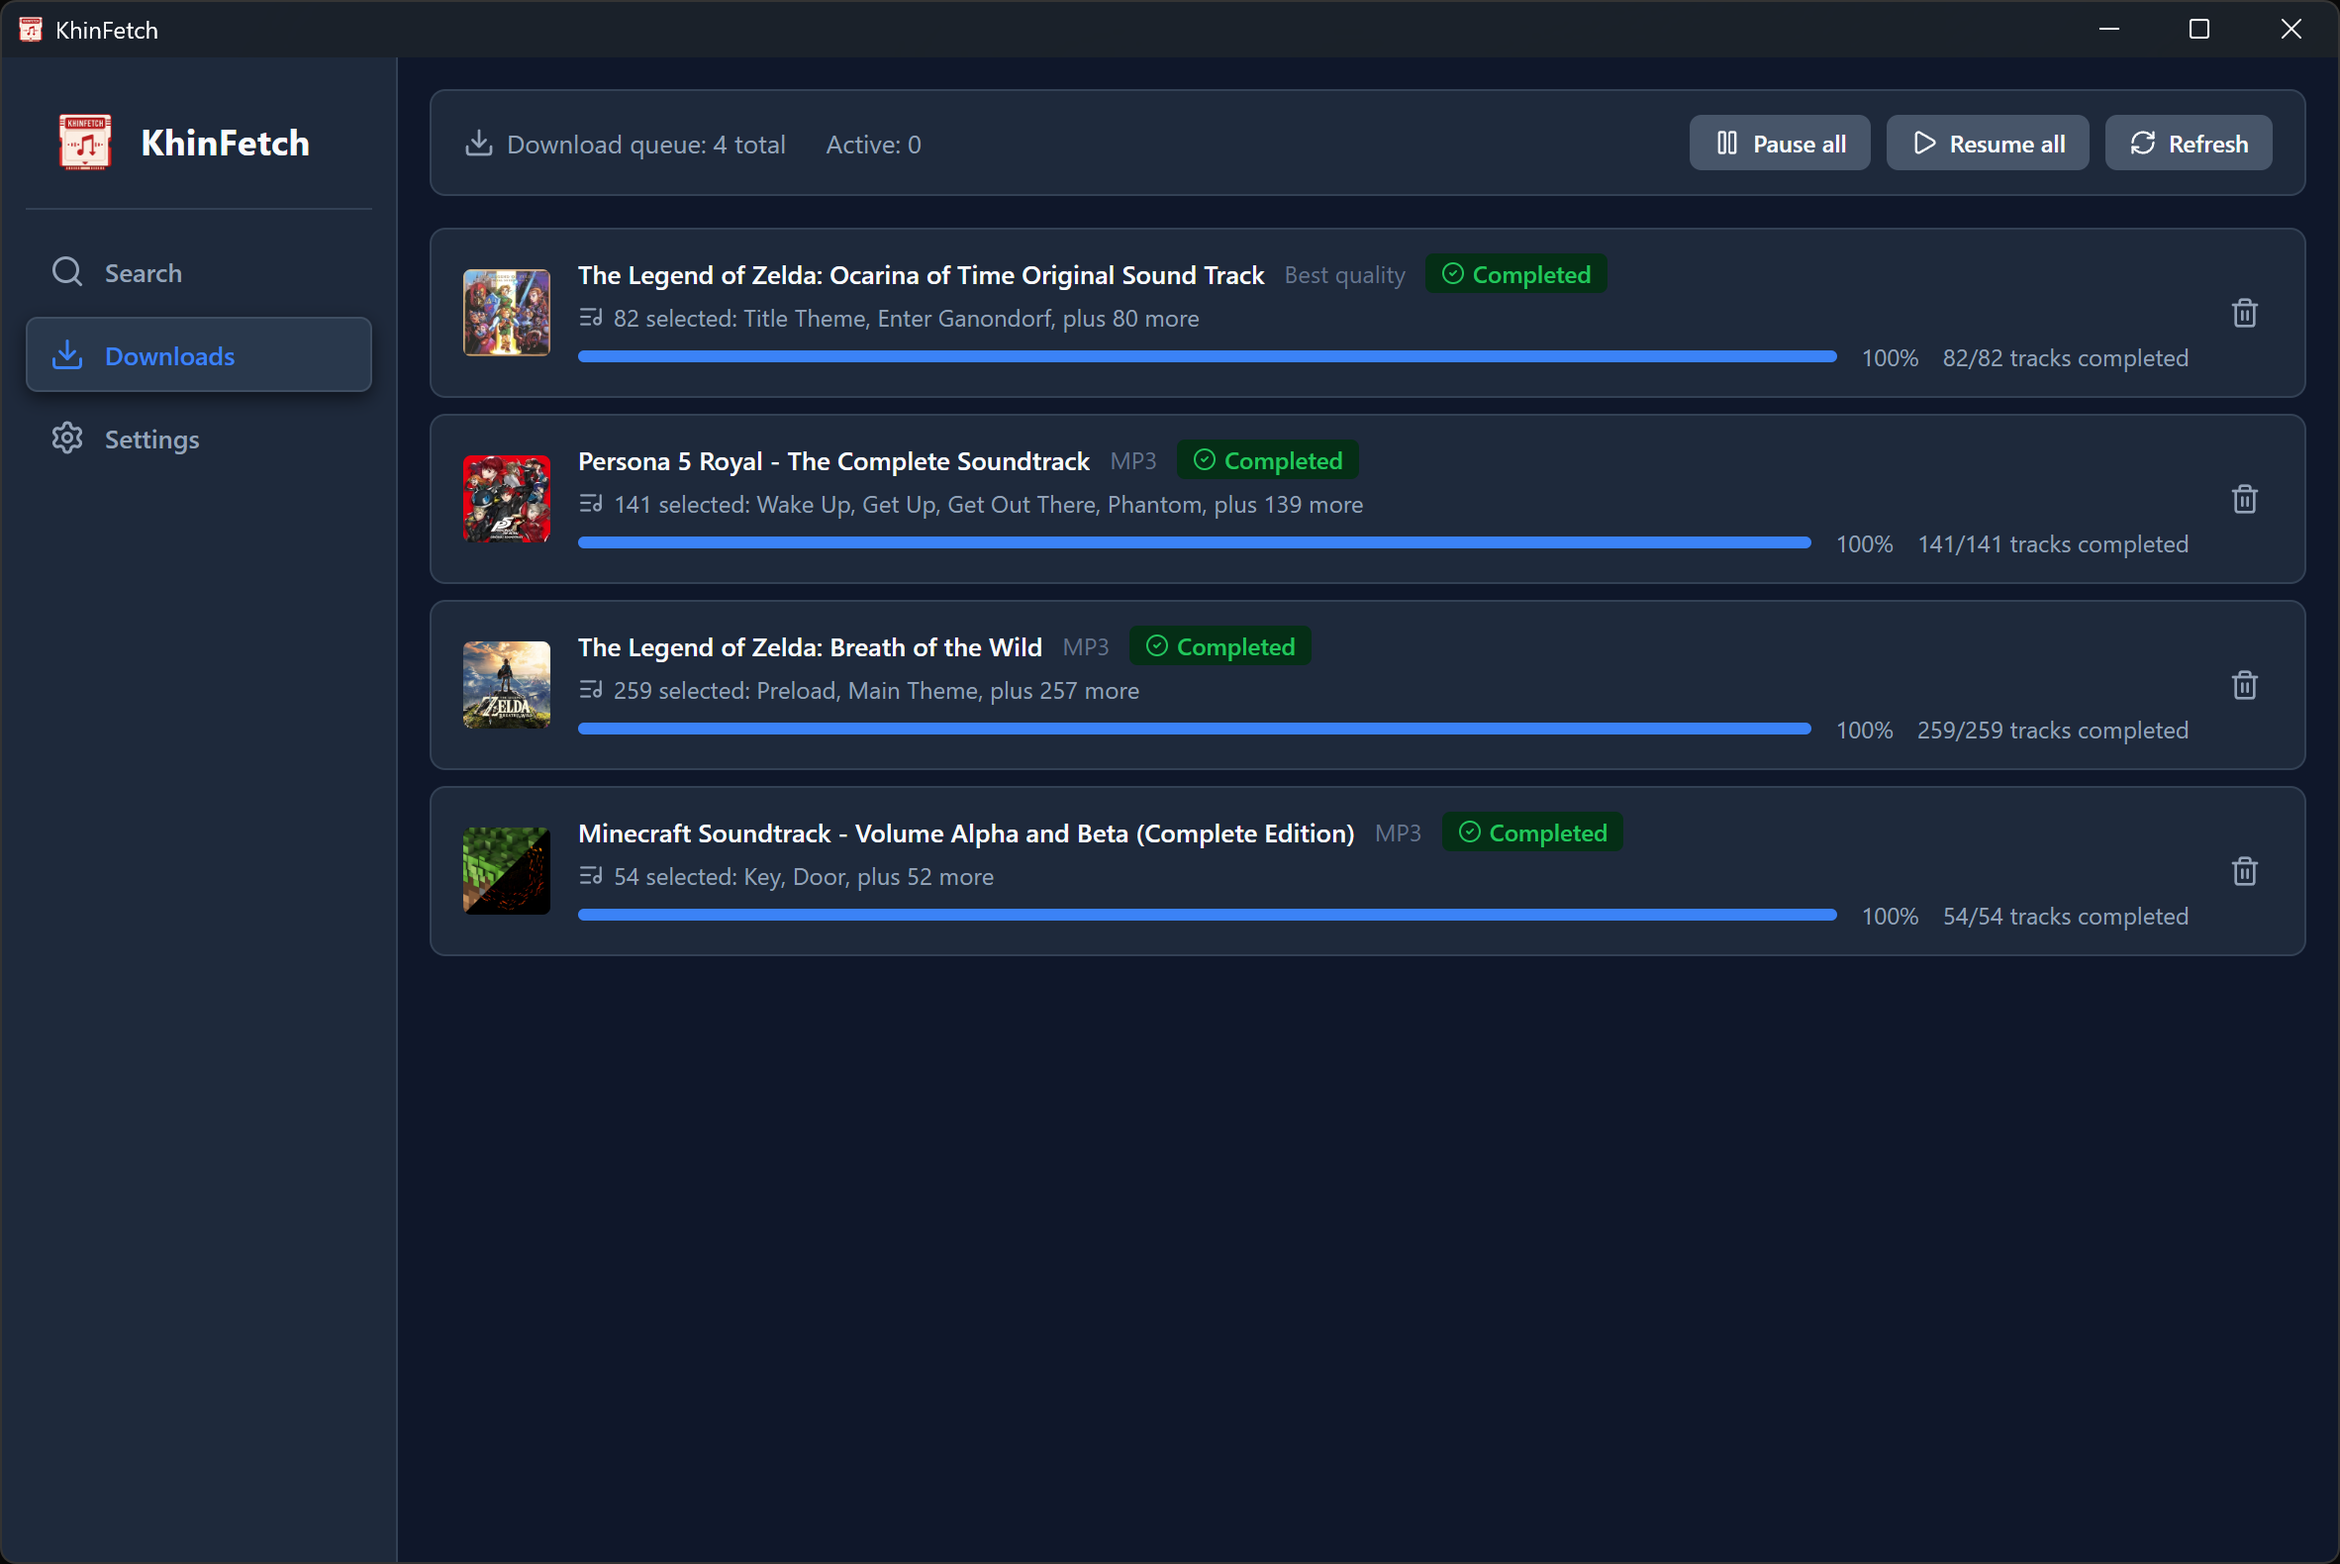
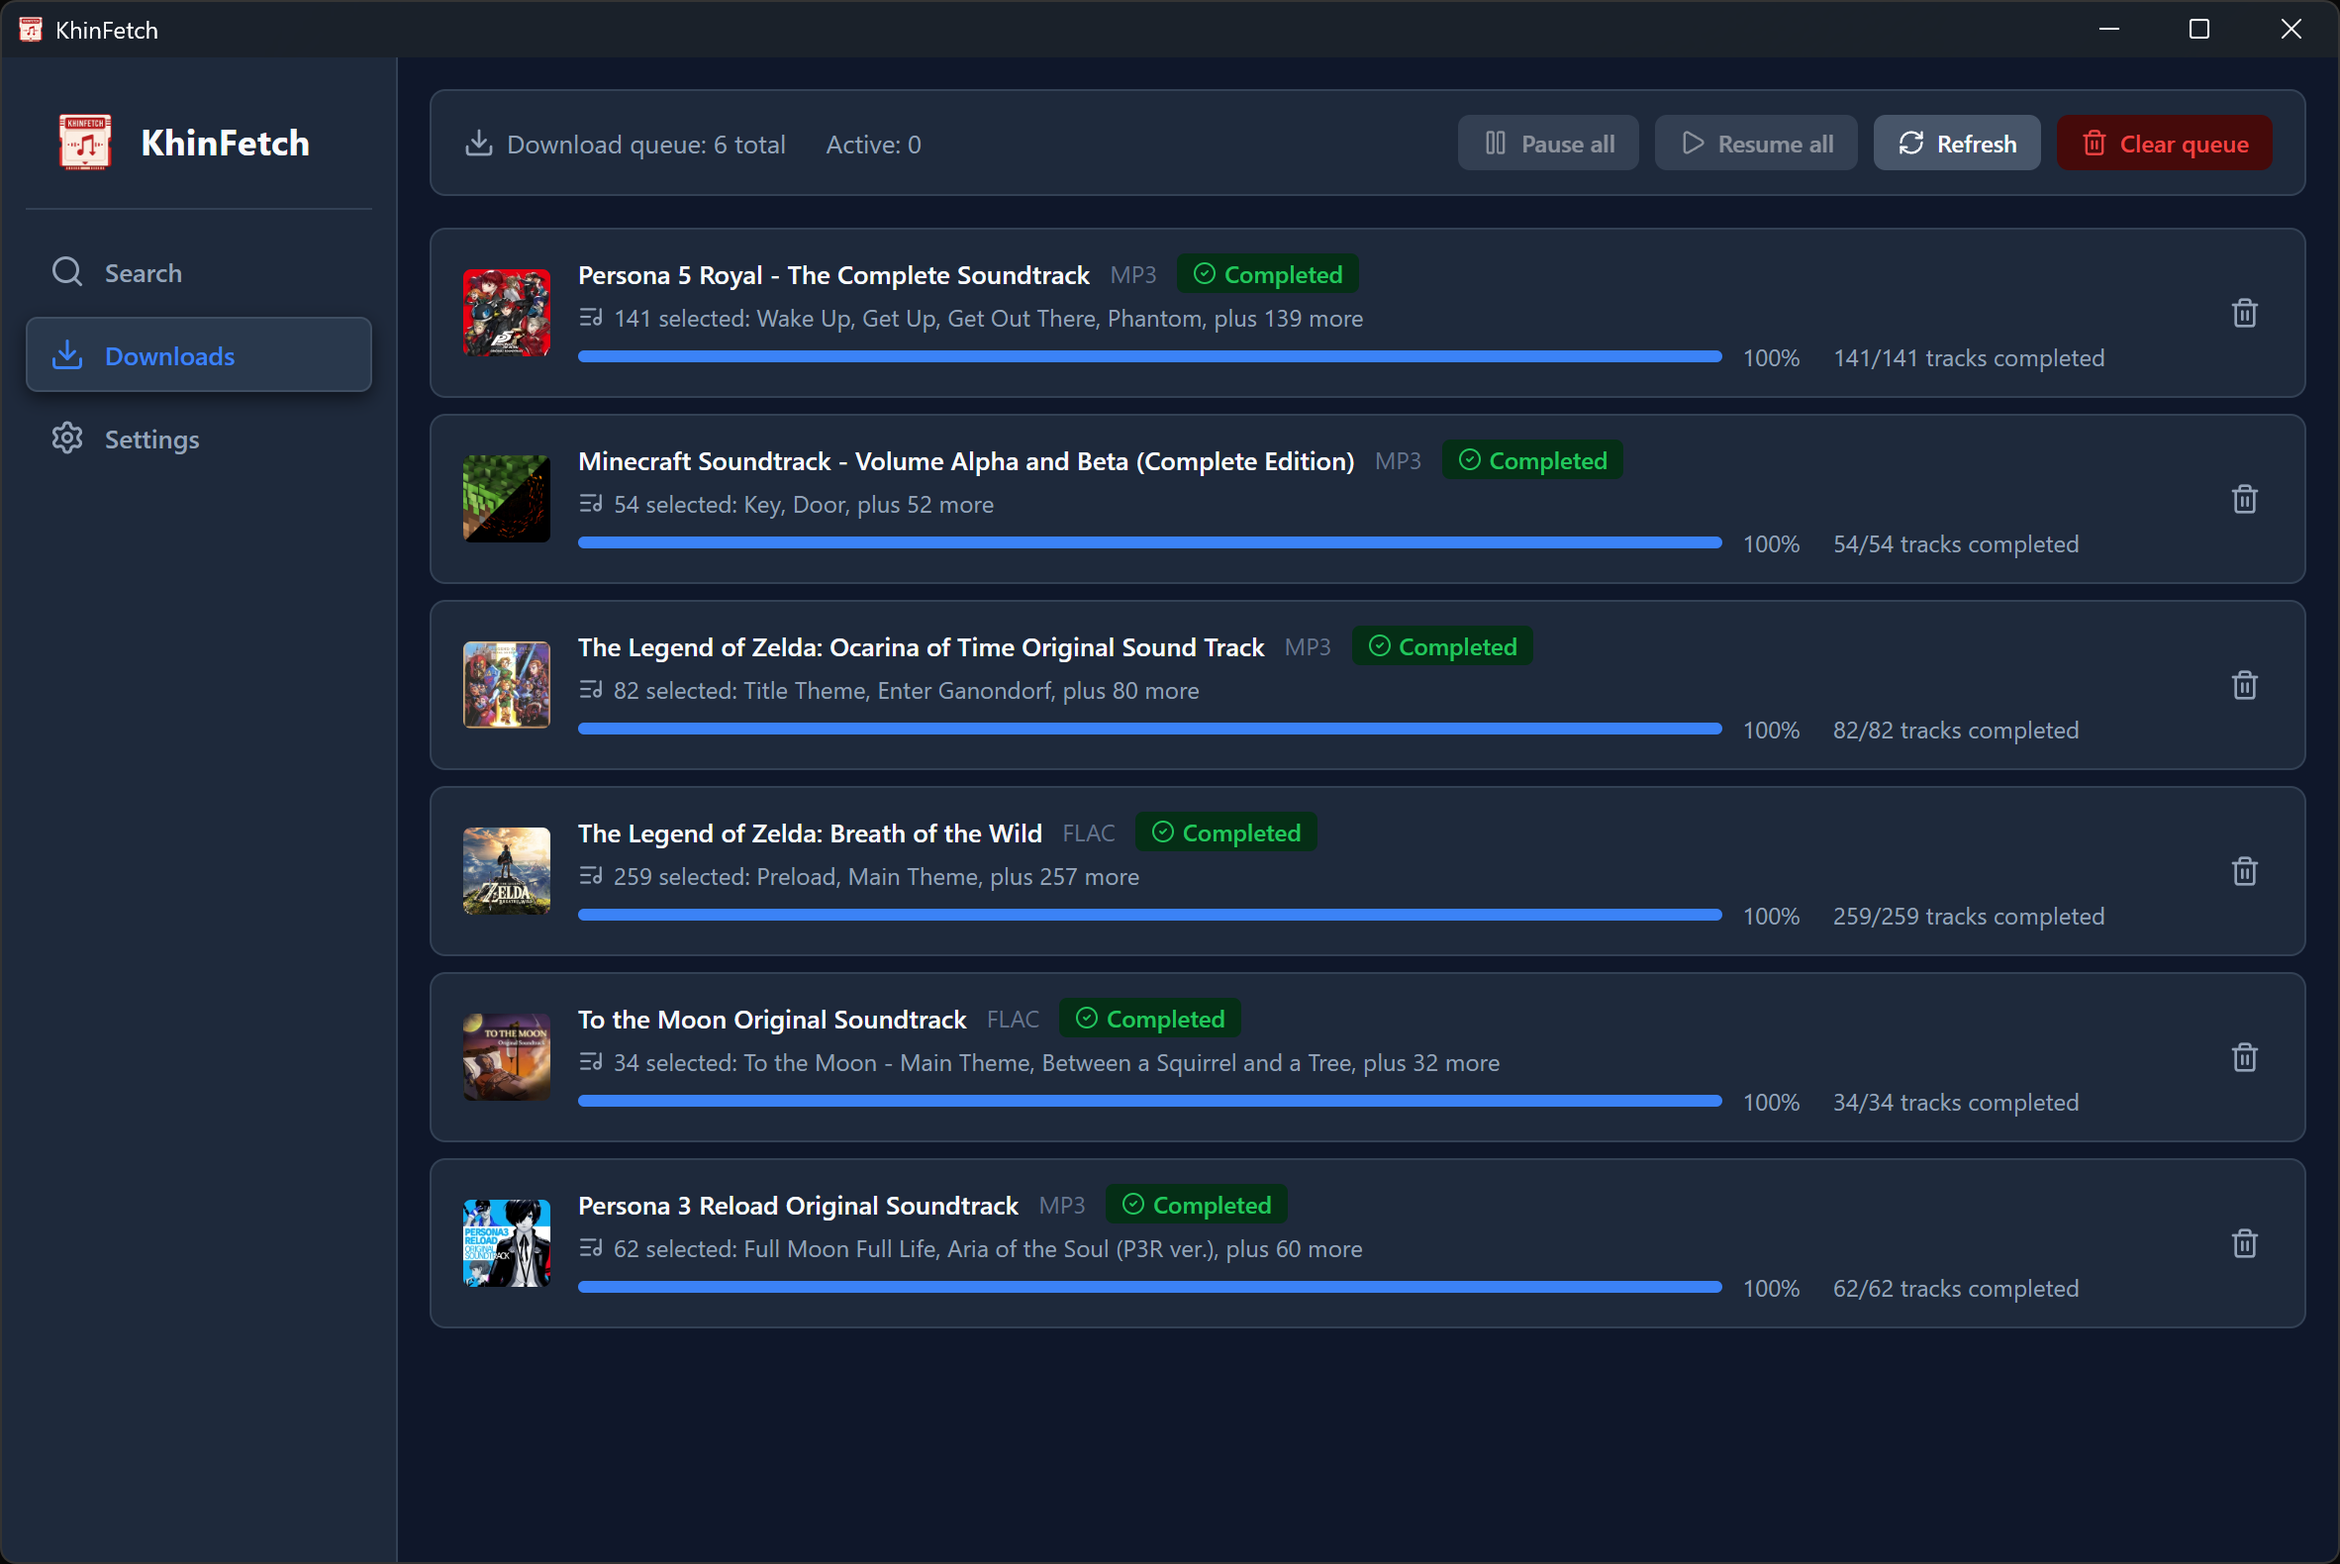
docs: update README for v0.1.1

diff --git a/README.zh-CN.md b/README.zh-CN.md
@@ -23,12 +23,15 @@
 ## 功能
 
 - 搜索 Khinsider 专辑，或直接打开专辑及播放列表链接。
-- 选择单独曲目，或批量添加多个专辑和播放列表链接。
-- 优先下载最佳可用音质，或仅下载 MP3。
+- 下载前查看专辑元数据、曲目时长、可用格式及文件大小。
+- 在线试听可用的 MP3 音频。
+- 为每首曲目选择最高可用音质，无损格式不可用时自动回退并明确显示混合音质，也可仅下载 MP3。
+- 批量添加多个专辑和播放列表链接。
 - 可选择在音频文件旁保存专辑原始封面。
-- 暂停、恢复、重试、取消并查看持久化下载任务。
-- 通过 SQLite 下载队列恢复意外中断的任务。
-- 支持简体中文和英文界面，以及浅色、深色和跟随系统主题。
+- 暂停、恢复、重试、取消并查看持久化的专辑、曲目和封面下载任务。
+- 通过 SQLite 下载队列恢复意外中断的任务及进度。
+- 配置并发数、下载音质、封面、文件验证、日志、主题和界面语言。
+- 支持简体中文和英文界面；首次启动跟随系统语言，主题可跟随系统或手动选择。
 
 ## 界面截图
 
@@ -42,7 +45,7 @@
 
 ## 项目状态
 
-KhinFetch 仍在积极开发中。源码构建面向 Windows、macOS 和 Linux，CI 会在三个平台上进行编译验证。GitHub Releases 可能提供预构建安装包；除非具体版本另有说明，这些安装包目前不含代码签名。
+KhinFetch 仍在积极开发中。源码构建面向 Windows、macOS 和 Linux，CI 会在三个平台上进行编译验证，GitHub Releases 提供预构建安装包，除非具体版本另有说明，这些安装包目前不含代码签名。
 
 Windows 版本还会提供 portable ZIP 压缩包，解压后直接运行 `KhinFetch.exe` 即可，无需安装。免安装版仍会将设置、数据库和日志写入当前用户的应用数据目录。
 
@@ -53,12 +56,11 @@ Windows 版本还会提供 portable ZIP 压缩包，解压后直接运行 `KhinF
 - Node.js 26.x
 - pnpm 11.20.x
 - Rust 1.97 或更高版本
-- [Tauri 文档](https://v2.tauri.app/start/prerequisites/)中列出的对应平台依赖
 
 ### 本地运行
 
 ```bash
-pnpm install --frozen-lockfile
+pnpm install
 pnpm tauri dev
 ```
 

diff --git a/README.md b/README.md
@@ -23,12 +23,15 @@
 ## Features
 
 - Search Khinsider albums or open an album or playlist URL directly.
-- Select individual tracks or add multiple album and playlist links in a batch.
-- Prefer the best available audio format or download MP3 only.
+- Inspect album metadata, track duration, available formats, and file sizes before downloading.
+- Preview available MP3 audio.
+- Prefer the best format available for each track, with automatic lossy fallback and clear mixed-quality labels, or download MP3 only.
+- Add multiple album and playlist links in a batch.
 - Optionally save original album artwork alongside audio files.
-- Pause, resume, retry, cancel, and inspect persistent download jobs.
-- Recover interrupted jobs from the SQLite-backed queue.
-- Use the interface in English or Simplified Chinese, with light, dark, and system themes.
+- Pause, resume, retry, cancel, and inspect persistent album, track, and artwork jobs.
+- Recover interrupted jobs and progress from the SQLite-backed queue.
+- Configure concurrency, download quality, artwork, file verification, logging, theme, and interface language.
+- Use the interface in English or Simplified Chinese; first launch follows the system language, and the theme can follow the system or be set explicitly.
 
 ## Screenshots
 
